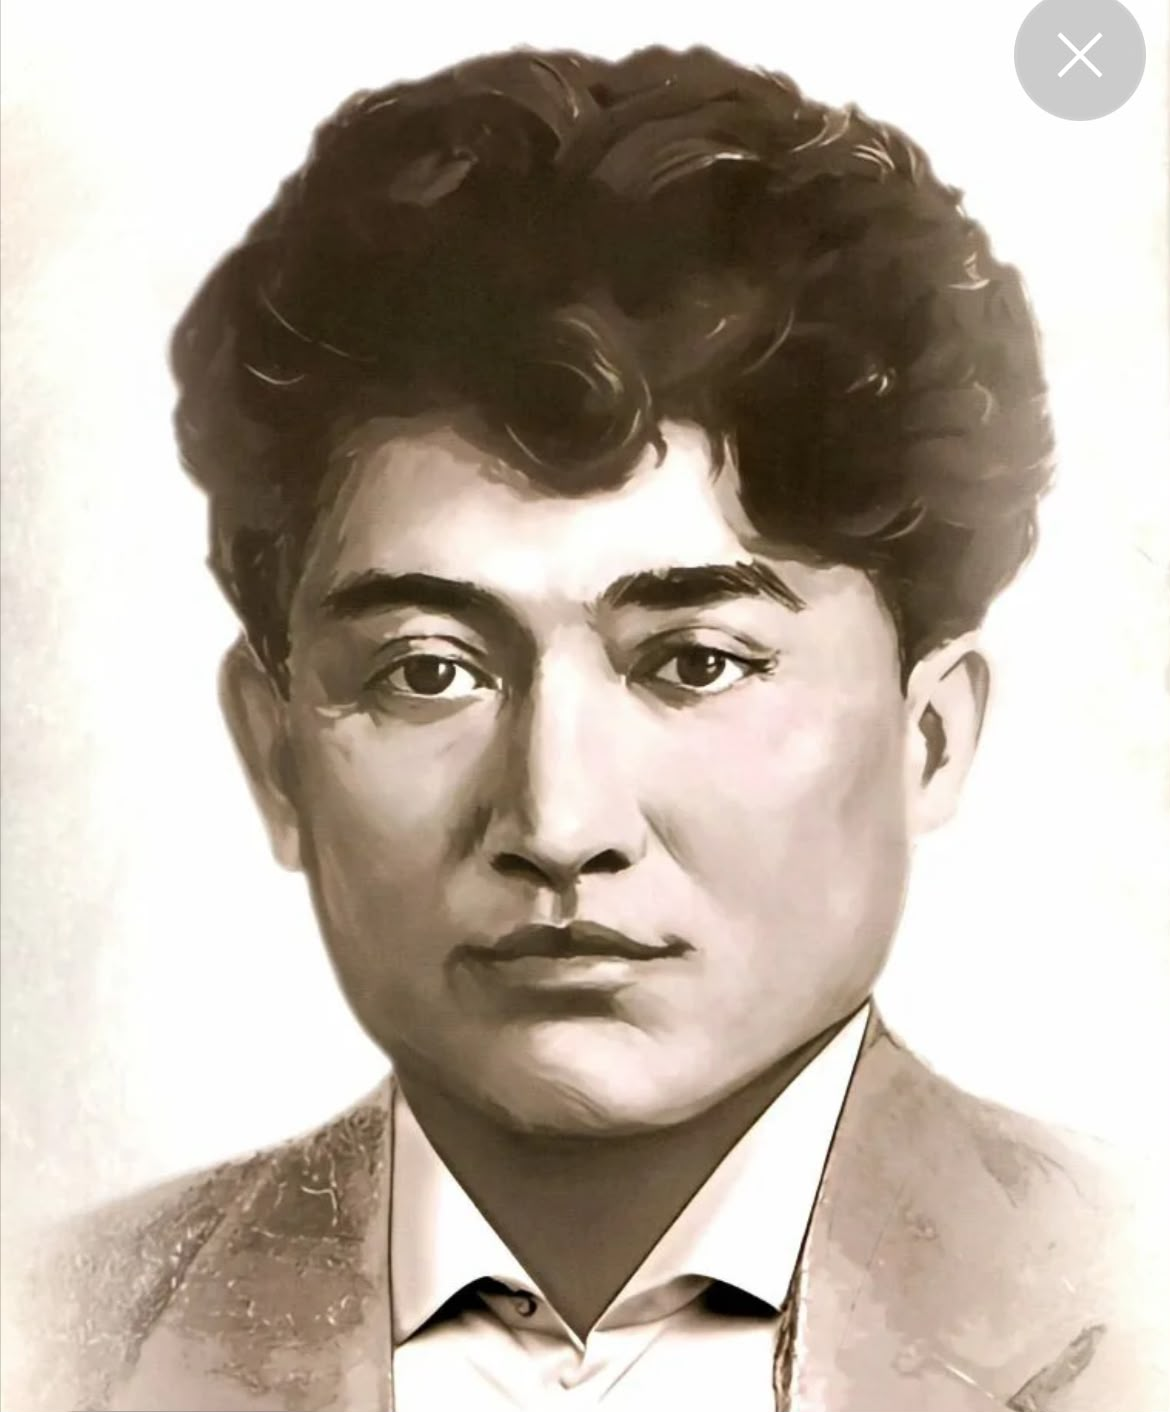
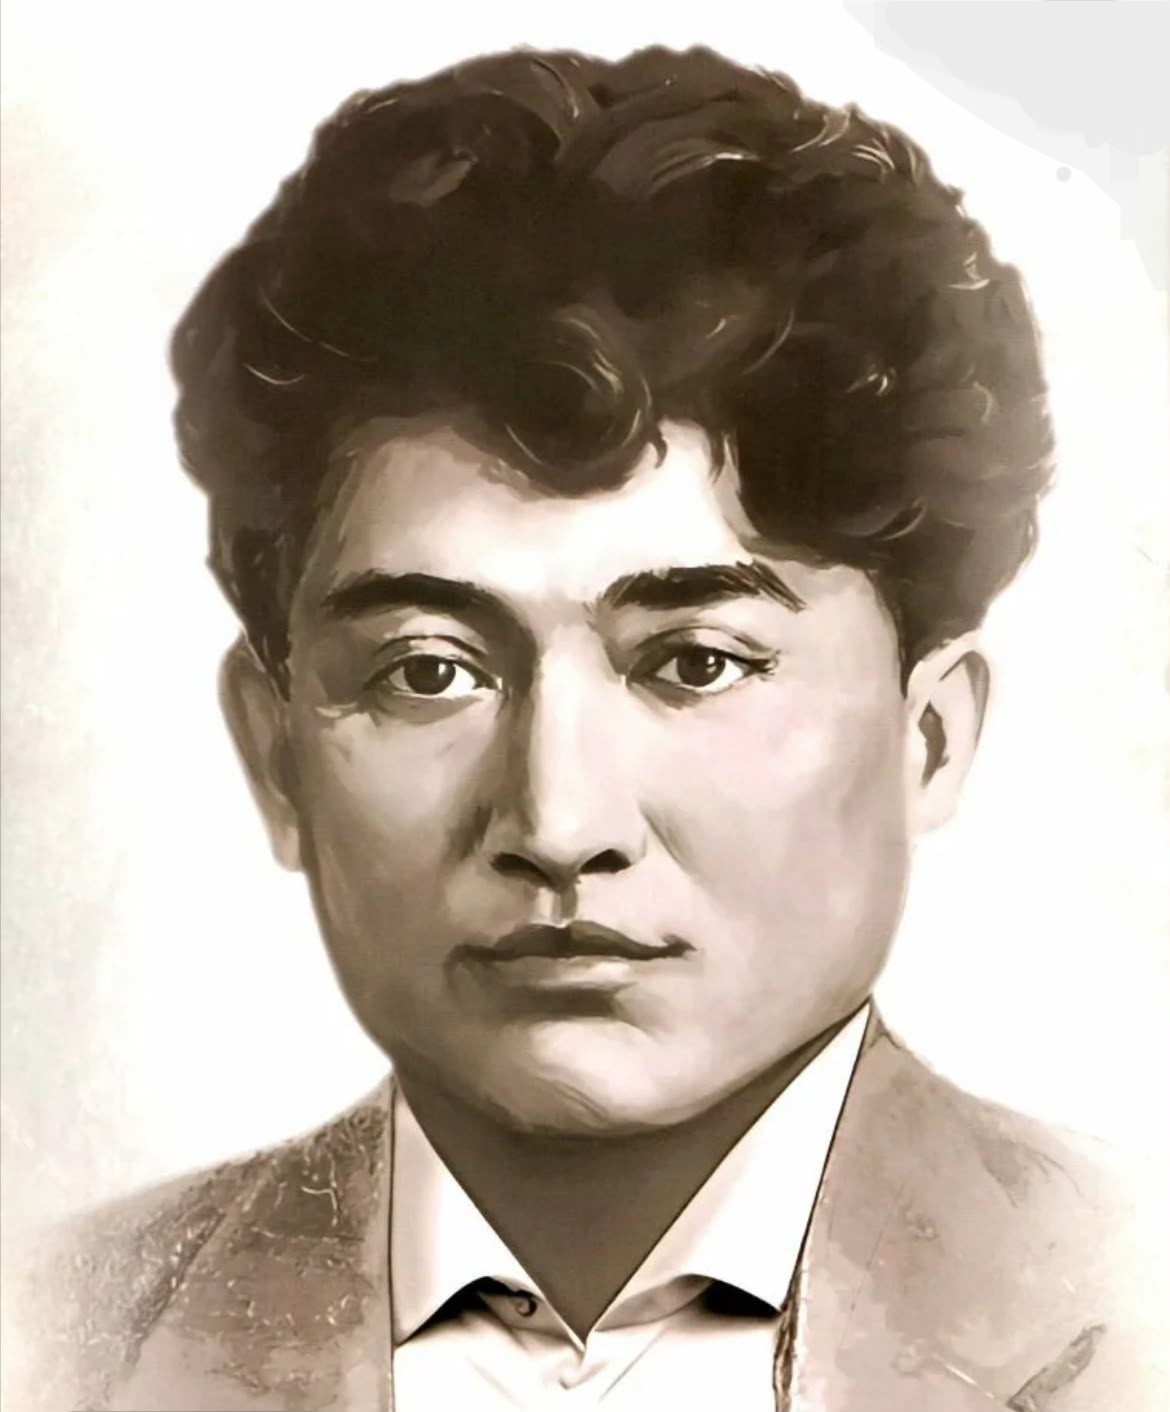
second commit

Changed region(s): [[0.8615, 0.0, 0.9846, 0.0935]]

diff --git a/assets/css/style.css b/assets/css/style.css
@@ -2,6 +2,13 @@
 
 .portrait-placeholder{min-height:210px;border:1px dashed var(--line);border-radius:10px;background:#ddd url("/images/Magzhan.jpeg") center / cover no-repeat;;display:flex;flex-direction:column;justify-content:center;align-items:center;color:var(--accent2)}
 .portrait-placeholder span{font:4rem Literata,serif}
+.portrait {
+  display: block;
+  max-width: 100%;
+  height: auto;
+  aspect-ratio: 4 / 5;
+  object-fit: cover;
+}
 
 .author-card h2,.section-card h3,.info-panel h3{font-family:Literata,serif}.notice{font-size:.86rem;color:var(--muted);background:var(--soft);border-radius:7px;padding:.7rem .85rem}
 .text-link{font-weight:600}.button{display:inline-flex;align-items:center;justify-content:center;border:1px solid transparent;border-radius:8px;padding:.7rem 1.05rem;text-decoration:none;font-weight:700}.button-primary{background:var(--accent);color:white}.dark .button-primary{color:#152322;background:#b3d8d0}.button-secondary{background:var(--soft);color:var(--ink);border-color:var(--line)}.button-quiet{background:transparent;border-color:var(--line);color:var(--muted)}.section-heading{margin-bottom:1.4rem}.section-heading h2{font:clamp(1.8rem,4vw,2.7rem) Literata,serif;line-height:1.2;margin:0}.section-heading.compact{display:flex;align-items:center;justify-content:space-between}.section-heading.compact h2{font-size:1.6rem}.progress-number{font-size:1.8rem;font-weight:700;color:var(--accent2)}.progress-track{height:12px;border-radius:99px;background:var(--soft);overflow:hidden;border:1px solid var(--line)}.progress-track span{display:block;width:0;height:100%;background:var(--accent2)}.muted,.small-note{color:var(--muted);font-size:.88rem}.section-cards{display:grid;grid-template-columns:repeat(3,minmax(0,1fr));gap:1rem}.section-card{color:var(--ink);text-decoration:none}.section-card:hover{border-color:var(--accent2)}.section-card h3{margin:.65rem 0 .25rem}.section-card p{color:var(--muted);margin:.2rem 0}.card-index{font-size:.75rem;color:var(--accent2);font-weight:700}.content-section{border-top:1px solid var(--line)}.two-column{display:grid;grid-template-columns:1fr 1fr;gap:1.2rem}.timeline{list-style:none;padding:0}.timeline li{display:grid;grid-template-columns:8rem 1fr;gap:.8rem;border-left:2px solid var(--line);padding:.1rem 0 1.2rem 1rem;margin-left:.4rem;position:relative}.timeline li:before{content:"";width:10px;height:10px;background:var(--accent2);border-radius:50%;position:absolute;left:-6px;top:.5rem}.timeline strong{color:var(--accent2)}.reader-toolbar,.quiz-controls{display:flex;align-items:center;gap:.8rem;flex-wrap:wrap;margin:1rem 0}.reader-toolbar select,.quiz-controls select,.search-label+input,.profile-panel input{padding:.7rem .8rem;border:1px solid var(--line);border-radius:8px;background:var(--surface);color:var(--ink);min-height:44px}.poem-reader{font:1.15rem/1.9 Literata,serif;background:var(--surface);border:1px solid var(--line);border-radius:12px;padding:clamp(1rem,4vw,2.5rem);white-space:pre-wrap;overflow-wrap:anywhere}.reflection{border-left:3px solid var(--accent2);padding:.5rem 1rem;margin-top:1.2rem}.footnote-area{display:flex;gap:.6rem;flex-wrap:wrap}.footnote-chip{border:1px solid var(--line);background:var(--surface);border-radius:99px;padding:.4rem .75rem}.analysis-grid{display:grid;grid-template-columns:repeat(2,minmax(0,1fr));gap:1rem}.search-label{display:block;font-weight:600;margin-bottom:.4rem}.search-label+input{width:100%;max-width:500px}.glossary-list{display:grid;grid-template-columns:repeat(2,minmax(0,1fr));gap:.7rem;margin-top:1rem}.glossary-item{padding:1rem;border:1px solid var(--line);background:var(--surface);border-radius:9px}.glossary-item h3{margin:0;font-size:1rem}.game-picker{display:flex;gap:.5rem;overflow-x:auto;padding:.4rem 0 1rem}.game-tab,.answer-options button,.order-item{flex:0 0 auto;padding:.65rem .8rem;border:1px solid var(--line);border-radius:8px;background:var(--surface);color:var(--ink);min-height:44px}.game-tab.active{background:var(--accent);color:white}.answer-options{display:flex;flex-wrap:wrap;gap:.6rem;margin:1rem 0}.feedback{margin-top:1rem;border-radius:8px;padding:.8rem 1rem;background:var(--soft);border-left:3px solid var(--accent2)}.feedback.wrong{border-left-color:#b6784d}.order-list{display:grid;gap:.5rem;padding:0;list-style:none}.order-item{display:flex;justify-content:space-between;align-items:center;gap:.7rem}.order-controls{display:flex;gap:.25rem}.order-controls button{min-width:44px;border:1px solid var(--line);border-radius:6px;background:var(--surface);color:var(--ink)}.flashcard{width:100%;min-height:180px;border:1px solid var(--line);border-radius:12px;background:var(--soft);color:var(--ink);padding:1.5rem;font:1.3rem Literata,serif}.flash-actions{display:flex;gap:.6rem;flex-wrap:wrap;margin-top:1rem}.word-grid{display:grid;grid-template-columns:repeat(8,minmax(28px,1fr));gap:4px;max-width:450px;margin:1rem 0}.word-grid button{aspect-ratio:1;border:1px solid var(--line);border-radius:5px;background:var(--surface);color:var(--ink);font-weight:700;padding:0}.word-grid button.found{background:#c9ded4;color:#173f46}.word-list{display:flex;gap:.4rem;flex-wrap:wrap}.word-tag{border:1px solid var(--line);border-radius:99px;padding:.25rem .6rem}.word-tag.found{text-decoration:line-through;background:var(--soft)}.question-card{border-bottom:1px solid var(--line);padding:1rem 0}.question-card label{display:flex;gap:.55rem;align-items:flex-start;padding:.45rem 0}.question-card input{margin-top:.45rem;min-width:18px;min-height:18px}.quiz-result{padding:1rem;background:var(--soft);border-radius:10px;margin-top:1rem}.profile-panel{display:flex;gap:.7rem;align-items:center;flex-wrap:wrap}.profile-panel input{flex:1;min-width:180px}.badge-list{display:flex;flex-wrap:wrap;gap:.7rem}.badge{border:1px solid var(--line);background:var(--surface);border-radius:10px;padding:.8rem 1rem}.badge.locked{opacity:.5}.badge strong{display:block}.site-footer{display:flex;justify-content:space-between;gap:1rem;flex-wrap:wrap;padding:2rem max(1rem,calc((100% - 1160px)/2));border-top:1px solid var(--line);color:var(--muted);font-size:.82rem}.empty-state{color:var(--muted);padding:1rem;border:1px dashed var(--line);border-radius:8px}@media(max-width:800px){.site-header{grid-template-columns:1fr auto}.menu-toggle{display:block}.main-nav{display:none;flex-wrap:wrap;overflow:visible}.main-nav.open{display:flex}.main-nav a{flex:1 1 30%;justify-content:center;background:var(--soft)}.hero{grid-template-columns:1fr;padding-top:2.5rem}.section-cards{grid-template-columns:repeat(2,minmax(0,1fr))}.two-column,.analysis-grid{grid-template-columns:1fr}.section-wrap{padding-block:2.2rem}}@media(max-width:480px){.section-wrap{width:calc(100% - 1.2rem)}.section-cards,.glossary-list{grid-template-columns:1fr}.main-nav a{flex-basis:45%;font-size:.82rem}.brand-mark{display:none}.hero h1{font-size:3.3rem}.reader-toolbar>*{width:100%}.word-grid{gap:2px}.site-footer{display:block}.site-footer span{display:block;margin:.4rem 0}}@media(prefers-reduced-motion:reduce){html{scroll-behavior:auto}*{transition:none!important}}

diff --git a/index.html b/index.html
@@ -20,7 +20,13 @@
 </nav></header>
 <main id="main">
 <section id="home" class="hero section-wrap"><div class="hero-copy"><p class="eyebrow">Қазақ әдебиеті · 8–9 сынып</p><h1>Батыр Баян</h1><p class="hero-subtitle">Мағжан Жұмабаевтың поэмасын оқу, түсіну және талдау</p><blockquote class="epigraph"><p>«Поэманың тексерілген мәтінін осы жерге енгізіңіз.»</p><cite>— Эпиграфқа арналған орын</cite></blockquote><a class="button button-primary" href="#poem" data-i18n="startLesson">Сабақты бастау</a></div>
-<aside class="author-card"><div class="portrait-placeholder" role="img" aria-label="Magzhan.jpeg"></div><h2>Мағжан Жұмабаев</h2><p>Қазақ ақыны, ағартушы және Алаш қозғалысымен байланысты әдеби тұлға.</p><p class="notice">Өмірбаян деректерін мұғалім тексеруі қажет.</p><a href="#author" class="text-link">Ақын туралы оқу →</a></aside></section>
+<aside class="author-card">
+    <img class="portrait"
+     src="Magzhan.jpeg"
+     alt="Портрет Магжана Жумабаева"
+     width="400" height="500">
+     
+<h2>Мағжан Жұмабаев</h2><p>Қазақ ақыны, ағартушы және Алаш қозғалысымен байланысты әдеби тұлға.</p><p class="notice">Өмірбаян деректерін мұғалім тексеруі қажет.</p><a href="#author" class="text-link">Ақын туралы оқу →</a></aside></section>
 <section class="section-wrap progress-strip"><div class="section-heading compact"><div><p class="eyebrow">Оқу барысы</p><h2>Менің ілгерілеуім</h2></div><span id="progress-percent" class="progress-number">0%</span></div><div class="progress-track" role="progressbar" aria-label="Жалпы оқу барысы" aria-valuemin="0" aria-valuemax="100" aria-valuenow="0" id="progress-bar"><span></span></div><p id="progress-summary" class="muted">Оқу барысы осы браузерде сақталады. Тіркелу қажет емес.</p></section>
 <section class="section-wrap"><div class="section-heading"><p class="eyebrow">Бағыт таңдаңыз</p><h2>Оқу бөлімдері</h2></div><div class="section-cards">
 <a class="section-card" href="#author"><span class="card-index">01</span><h3>Ақын туралы</h3><p>Өмір жолы мен тарихи кезең.</p></a><a class="section-card" href="#poem"><span class="card-index">02</span><h3>Поэманы оқу</h3><p>Тексерілген мәтінді бөлімдермен оқыңыз.</p></a><a class="section-card" href="#analysis"><span class="card-index">03</span><h3>Талдау</h3><p>Сюжет, кейіпкерлер және көркемдік тәсілдер.</p></a><a class="section-card" href="#glossary"><span class="card-index">04</span><h3>Сөздік</h3><p>Мағынасы қиын сөздерді іздеу.</p></a><a class="section-card" href="#games"><span class="card-index">05</span><h3>Тапсырмалар</h3><p>Алты интерактивті формат.</p></a><a class="section-card" href="#quizzes"><span class="card-index">06</span><h3>Тесттер</h3><p>Білімді тексеріп, қатені талдау.</p></a>
